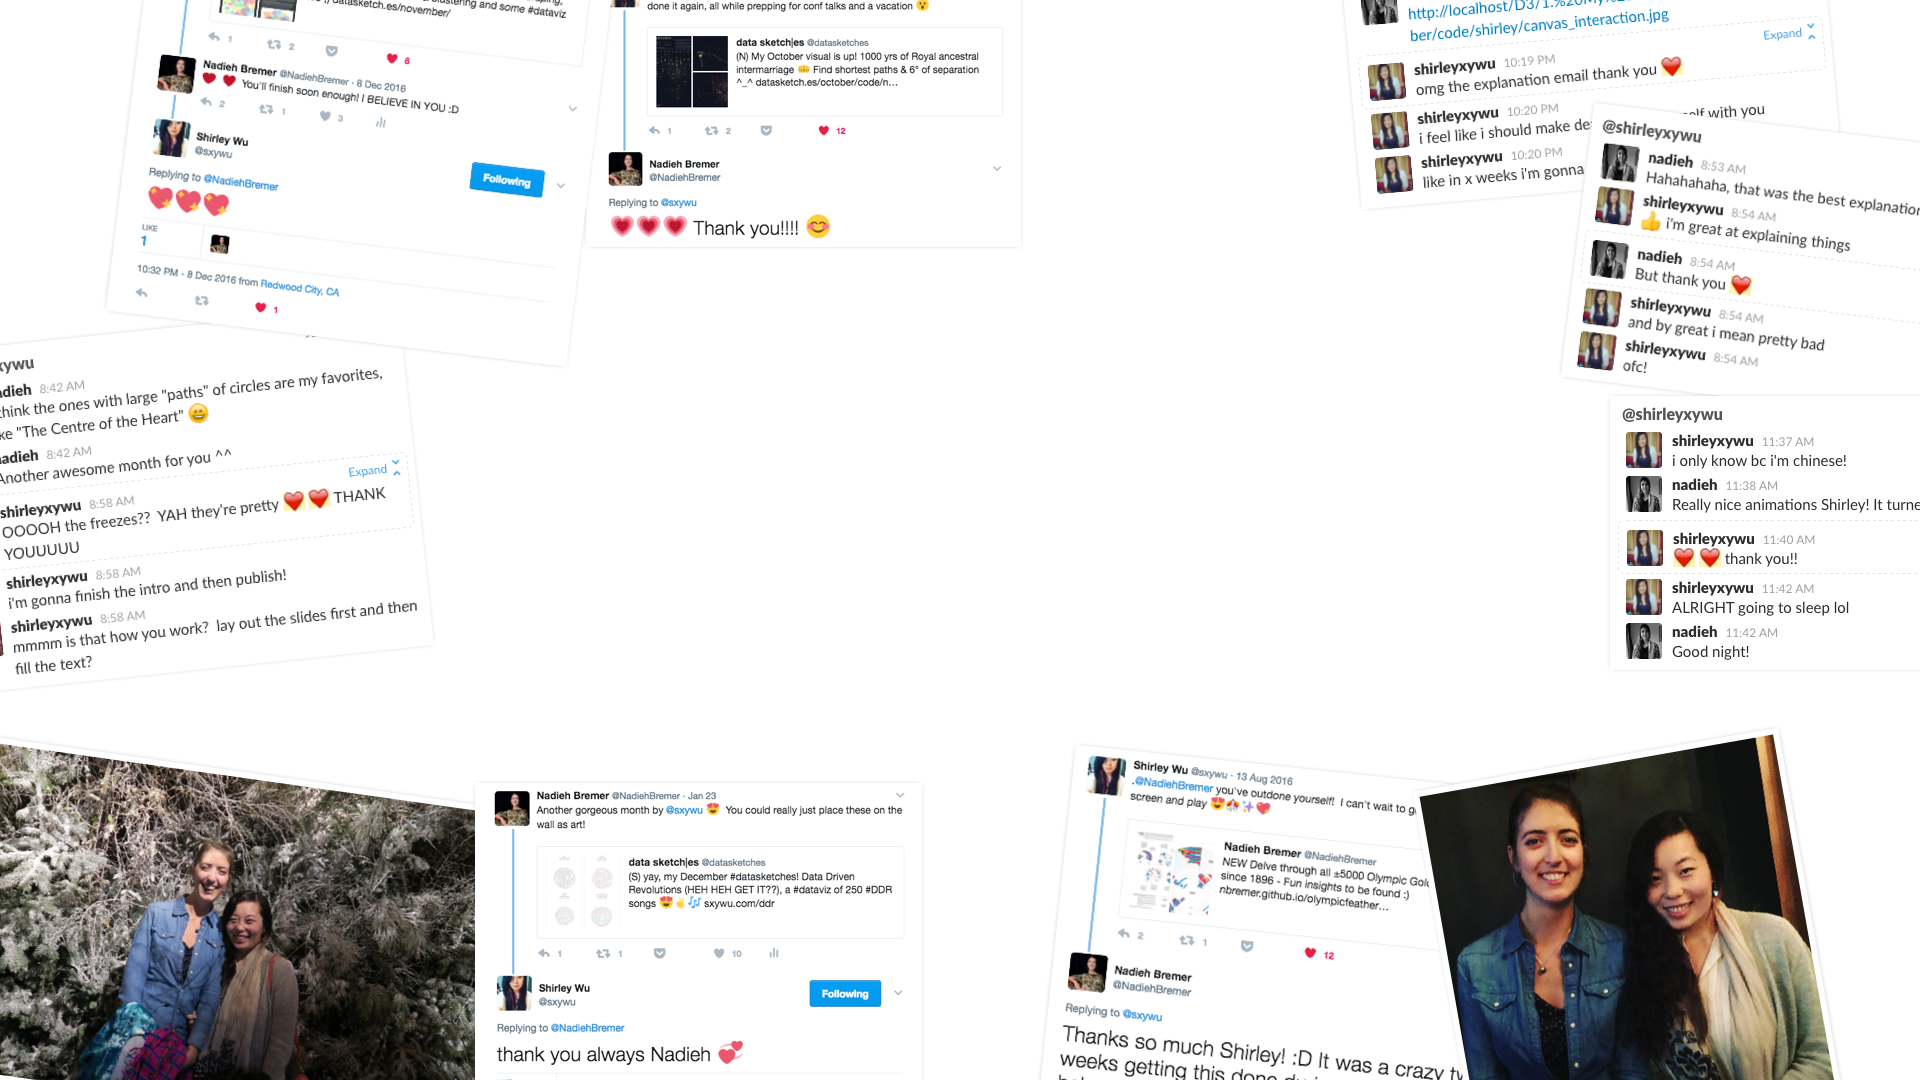
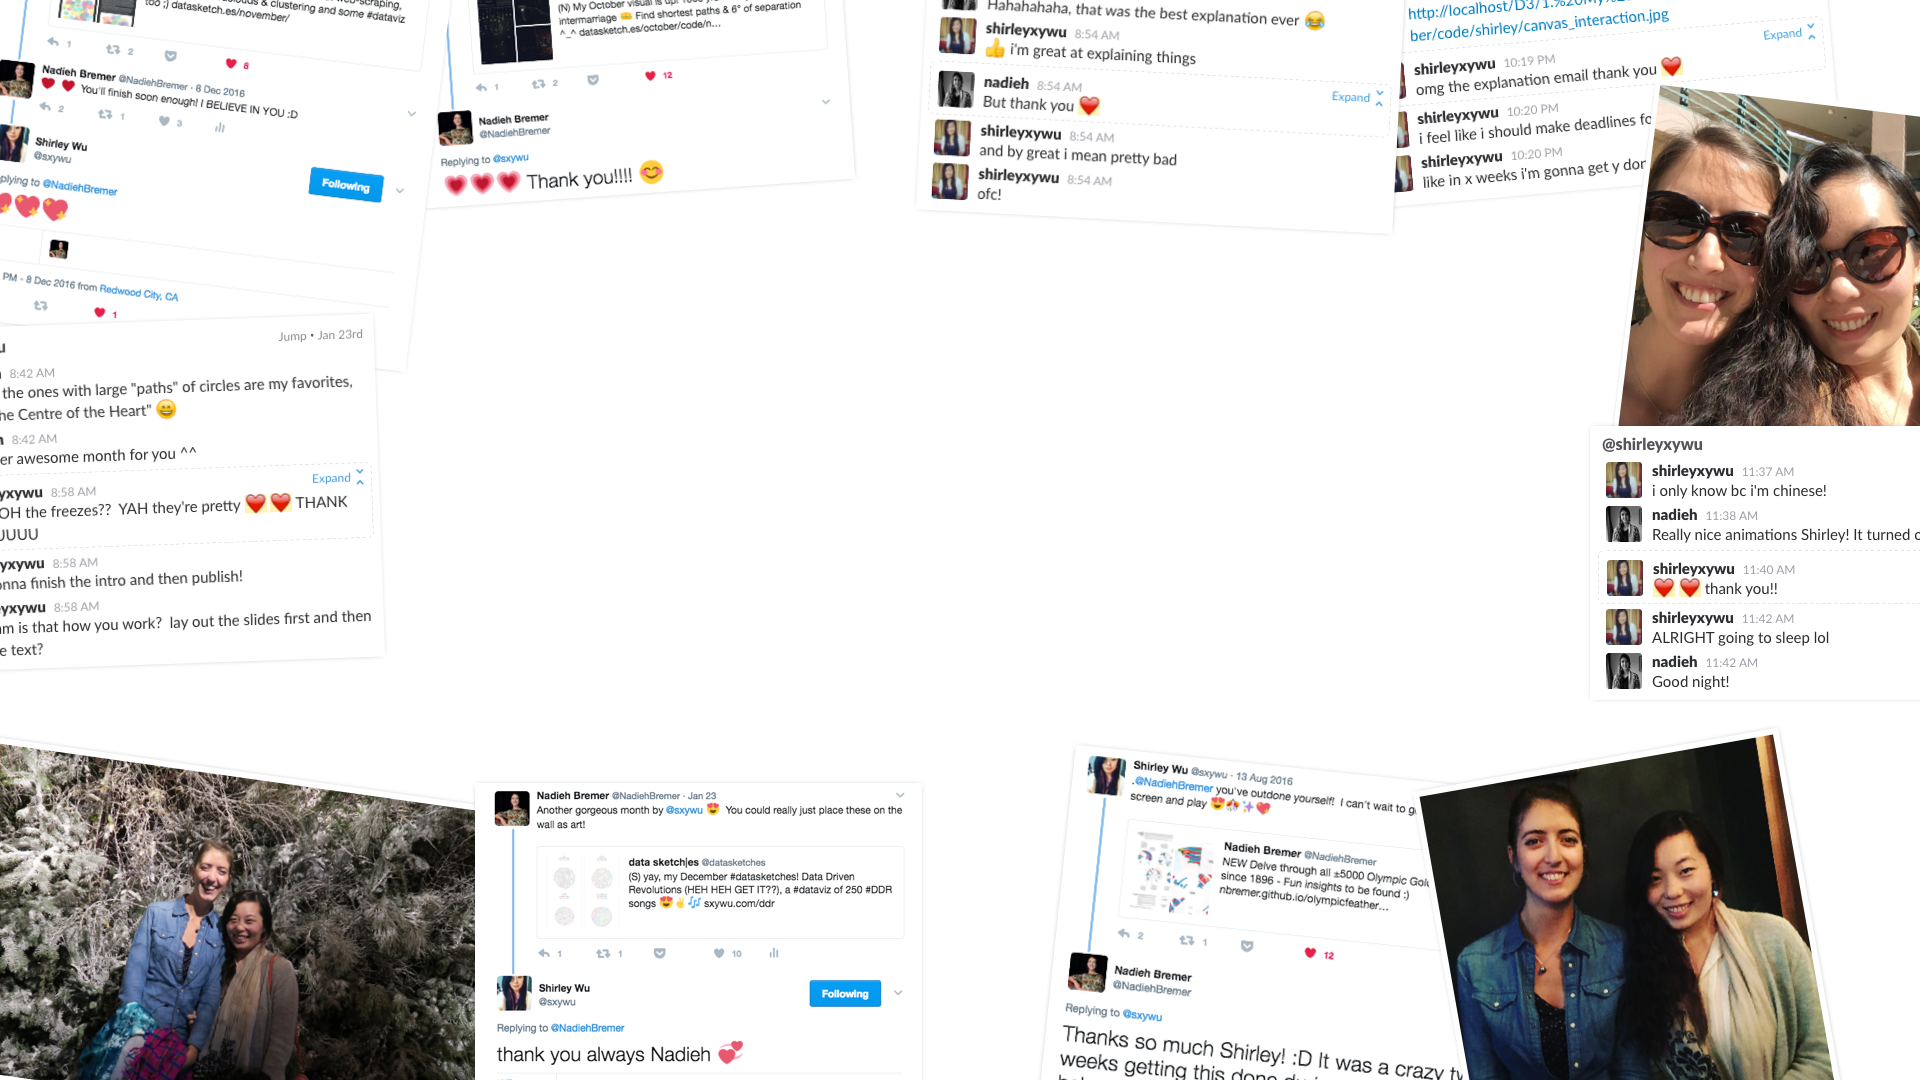
More photos in soft stuff title slide

diff --git a/slides/slide_N_15/lotrIntro.html b/slides/slide_N_15/lotrIntro.html
@@ -17,7 +17,7 @@
 	}
 
 	.lotr .character-note {
-		font-family: 'Aniron', serif;
+		font-family: 'Open Sans', serif;
 		text-anchor: middle;
 		font-size: 12px;
 	  	fill: #5f5f5f;
